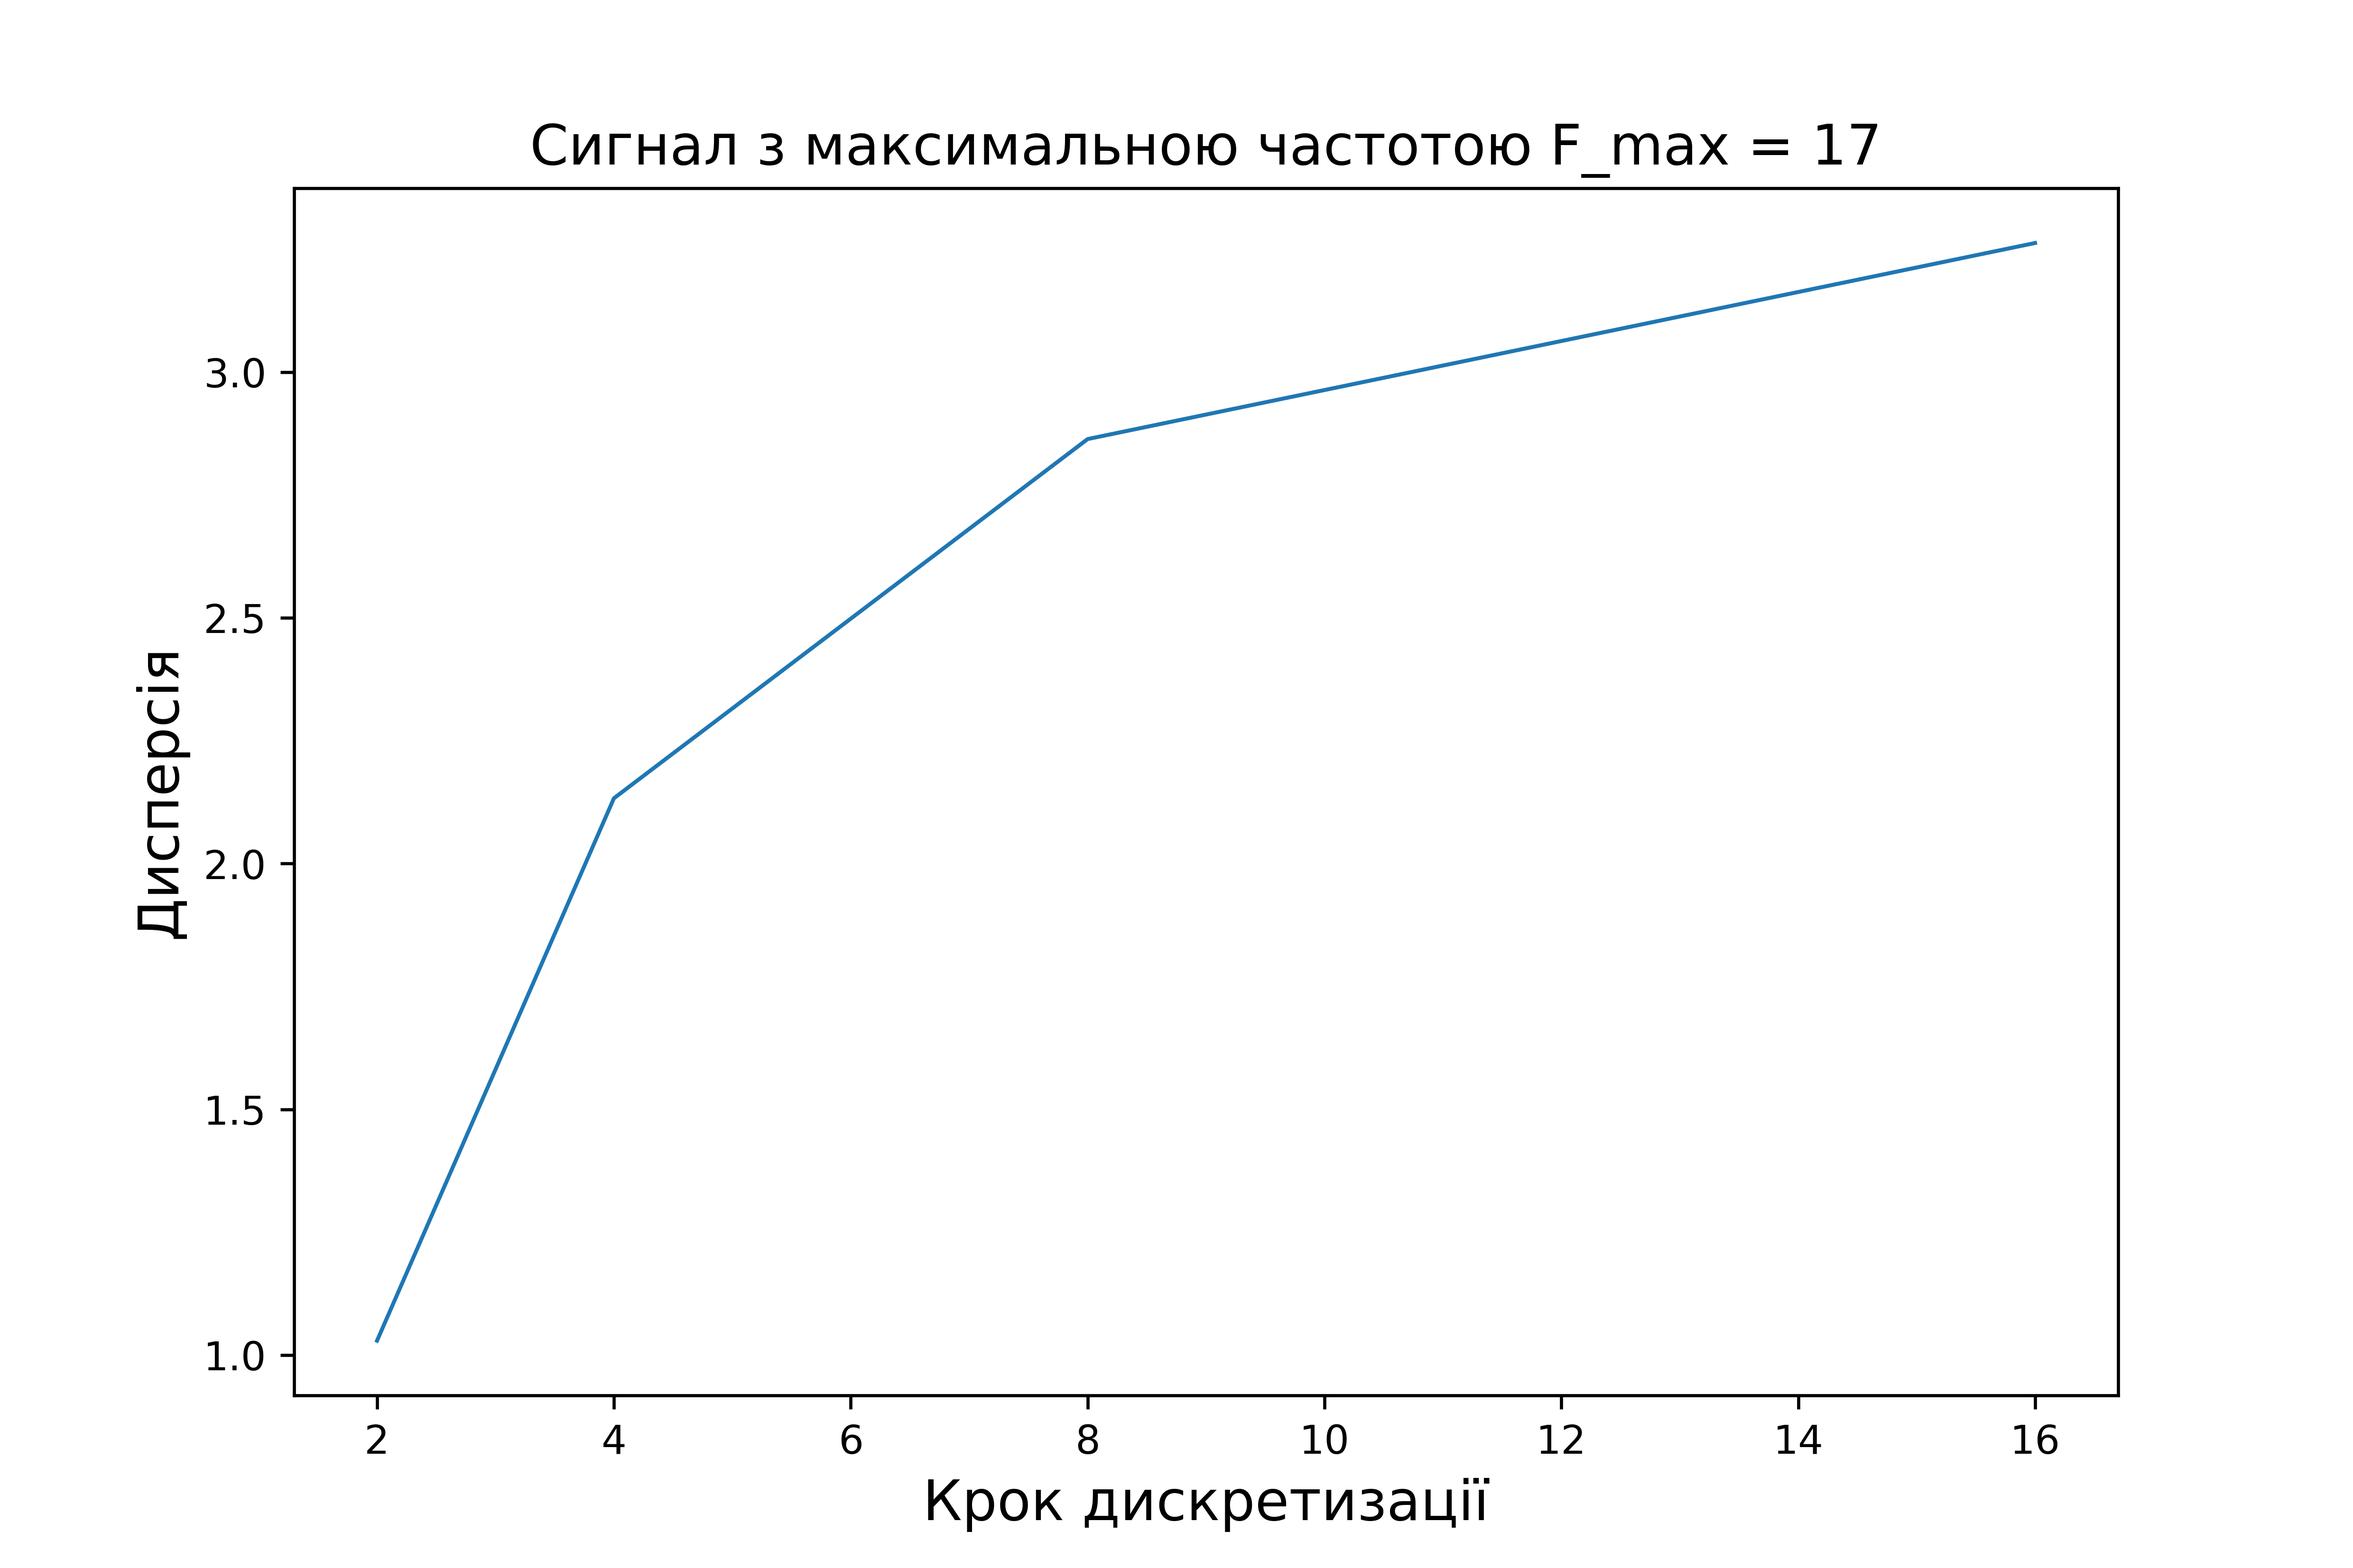
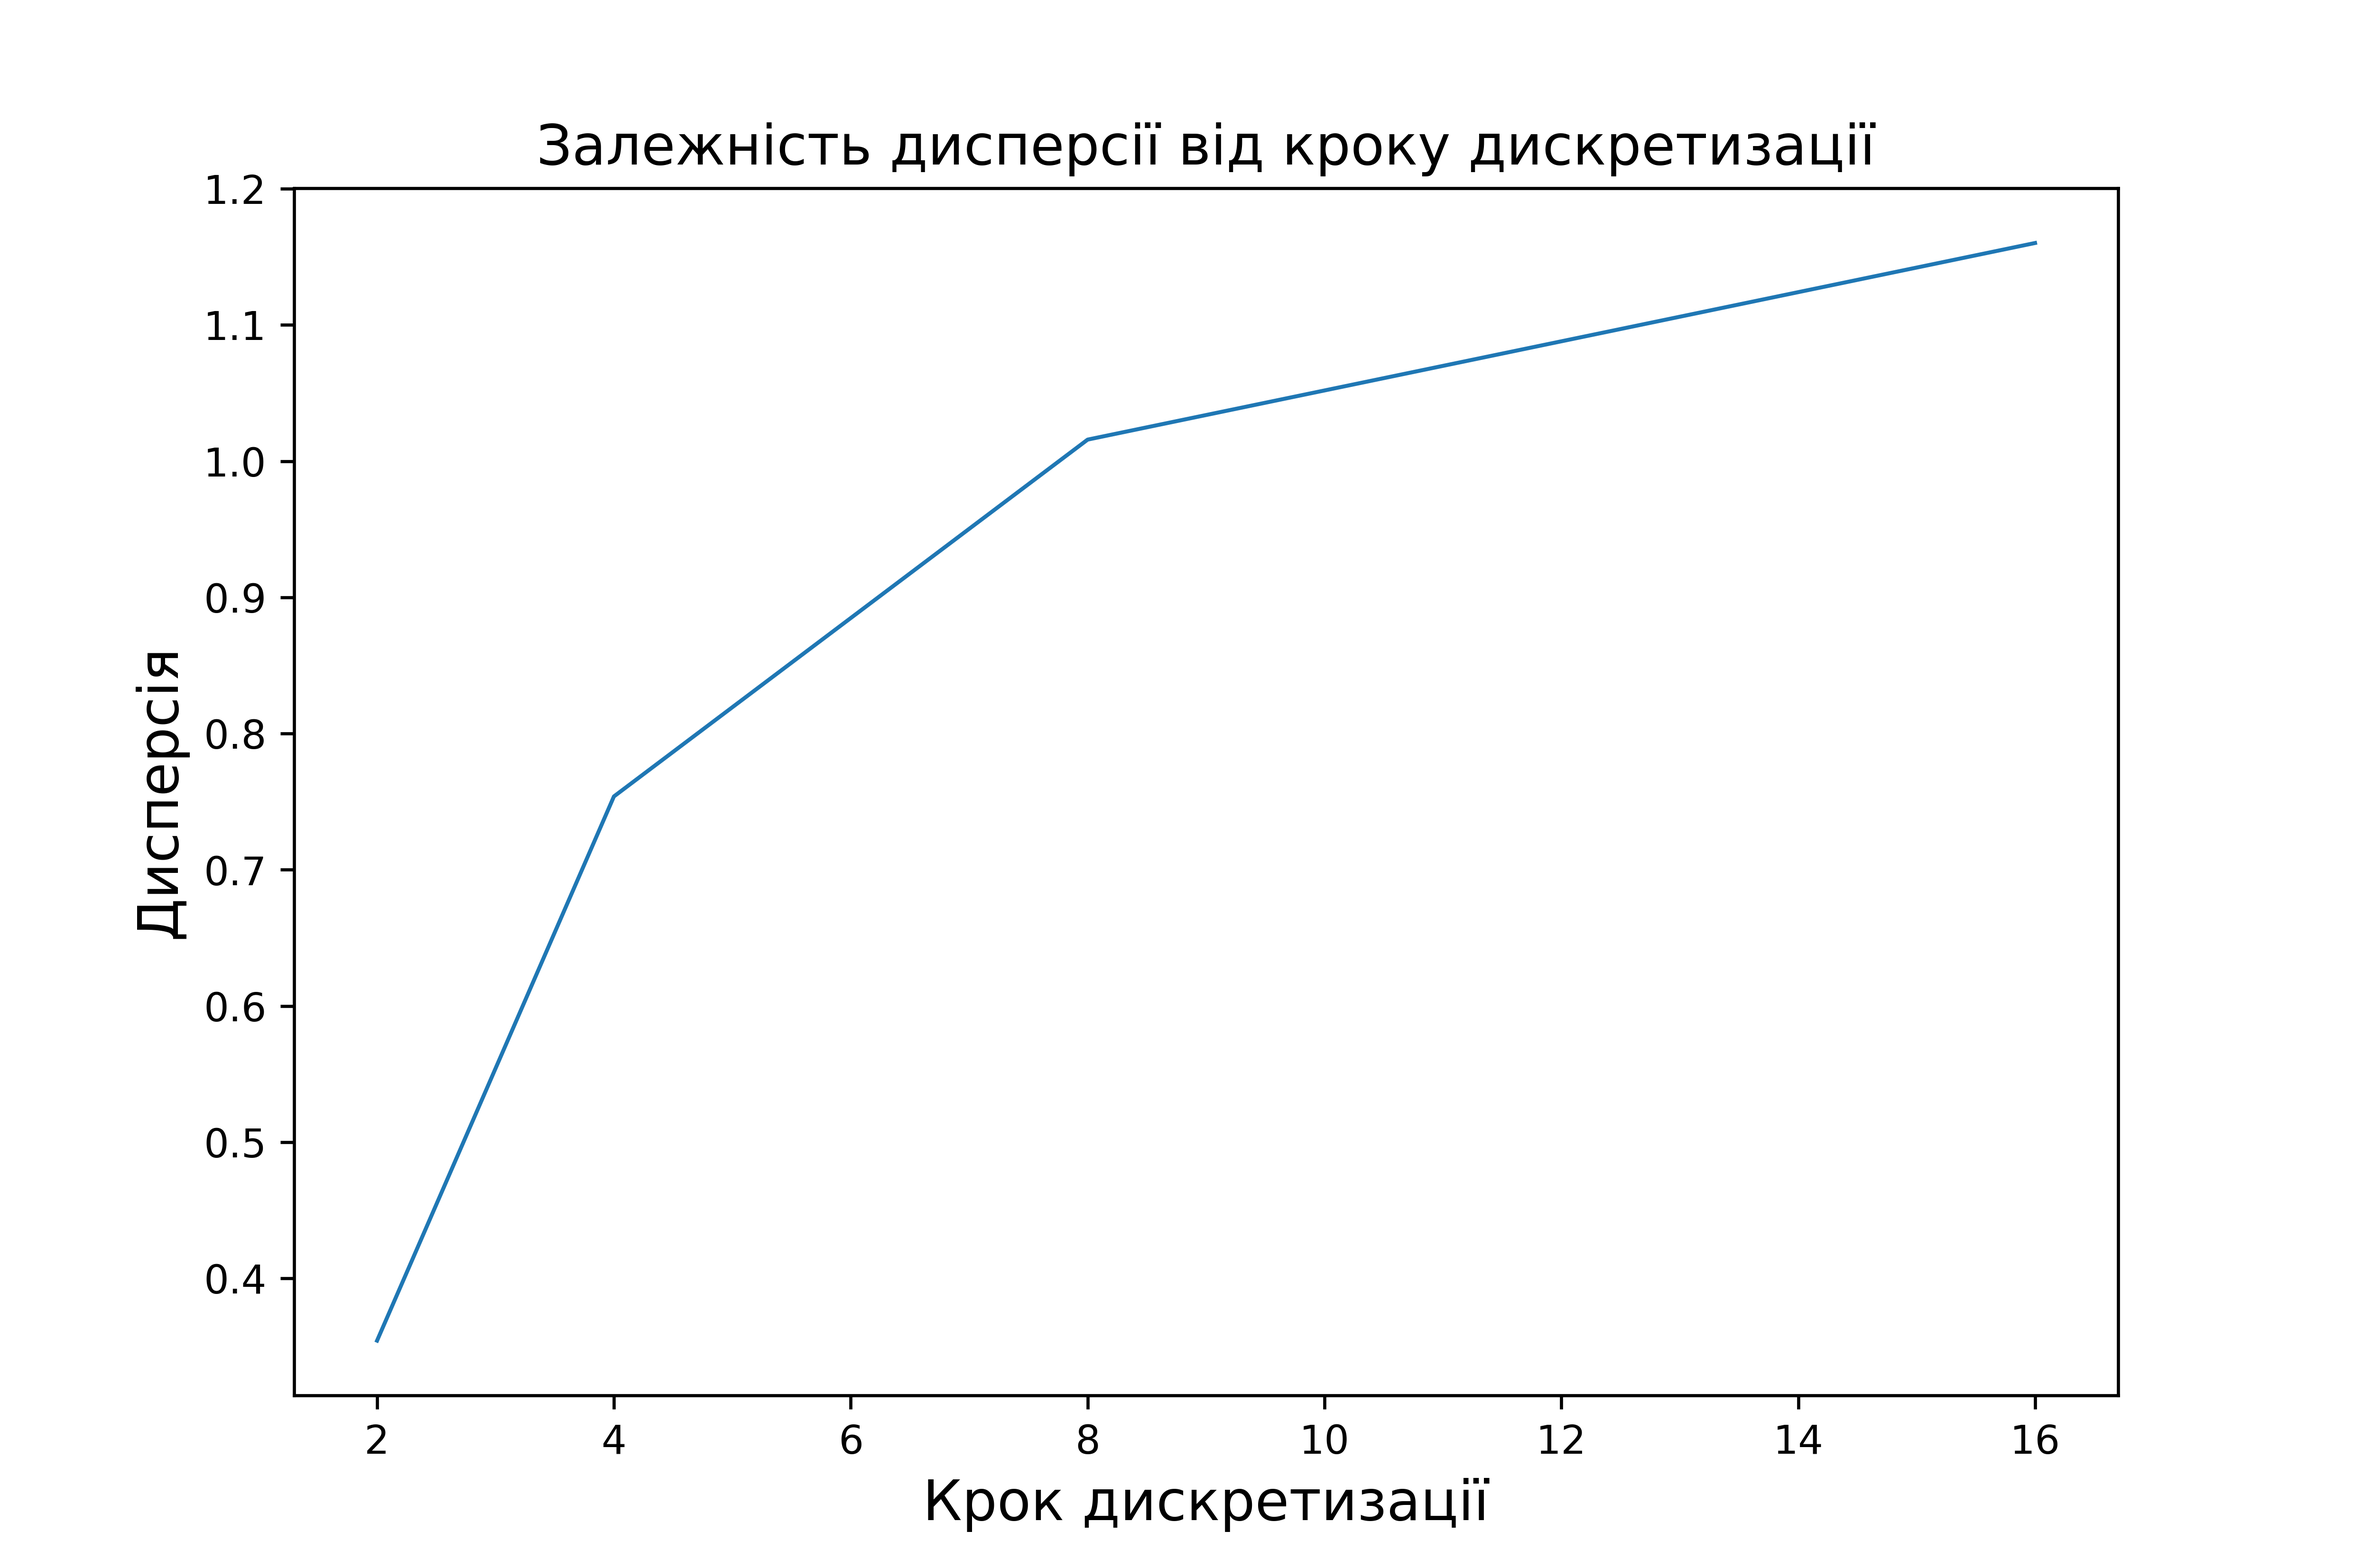
Signal processing, 3

diff --git a/SignalProcessing/SignalProcessing.py b/SignalProcessing/SignalProcessing.py
@@ -105,7 +105,7 @@ fig, ax = plt.subplots(figsize=(21 / 2.54, 14 / 2.54))
 ax.plot(X, dispersion_dif, linewidth=1)
 ax.set_xlabel("Крок дискретизації", fontsize=14)
 ax.set_ylabel("Дисперсія", fontsize=14)
-plt.title("Сигнал з максимальною частотою F_max = 17", fontsize=14)
+plt.title("Залежність дисперсії від кроку дискретизації", fontsize=14)
 fig.savefig("./figures/" + "Залежність дисперсії від кроку дискретизації" + ".png", dpi=600)
 
 # Display of the signal-to-noise ratio from the variance
@@ -113,5 +113,81 @@ fig, ax = plt.subplots(figsize=(21 / 2.54, 14 / 2.54))
 ax.plot(X, signal_noise, linewidth=1)
 ax.set_xlabel("Крок дискретизації", fontsize=14)
 ax.set_ylabel("ССШ", fontsize=14)
-plt.title("Сигнал з максимальною частотою F_max = 17", fontsize=14)
+plt.title("Залежність співвідношення сигнал-шум від кроку дискретизації", fontsize=14)
 fig.savefig("./figures/" + "Залежність співвідношення сигнал-шум від кроку дискретизації" + ".png", dpi=600)
+
+
+# practice 4
+dispersion_dif.clear()
+signal_noise.clear()
+quantize_signals = []
+for M in [4, 16, 64, 256]:
+    bits = []
+    delta = (numpy.max(y) - numpy.min(y)) / (M - 1)
+    quantize_signal = delta * numpy.round(y / delta)
+    quantize_signals += [quantize_signal]
+    quantize_levels = numpy.arange(numpy.min(quantize_signal), numpy.max(quantize_signal) + 1, delta)
+    quantize_bit = numpy.arange(0, M)
+    quantize_bit = [format(bits, '0' + str(int(numpy.log(M) / numpy.log(2))) + 'b') for bits in quantize_bit]
+    quantize_table = numpy.c_[quantize_levels[:M], quantize_bit[:M]]
+    # table display
+    fig, ax = plt.subplots(figsize=(14 / 2.54, M / 2.54))
+    table = ax.table(cellText=quantize_table, colLabels=['Значення сигналу', 'Кодова послідовність'], loc='center')
+    table.set_fontsize(14)
+    table.scale(1, 2)
+    ax.axis('off')
+    fig.savefig("./figures/" + "Таблиця квантування для " + str(M) + " рівнів" + ".png", dpi=600)
+
+    for signal_value in quantize_signal:
+        for index, value in enumerate(quantize_levels[:M]):
+            if numpy.round(numpy.abs(signal_value - value), 0) == 0:
+                bits.append(quantize_bit[index])
+                break
+    bits = [int(item) for item in list(''.join(bits))]
+
+    # Display graphics of bit sequences
+    fig, ax = plt.subplots(figsize=(21 / 2.54, 14 / 2.54))
+    ax.step(numpy.arange(0, len(bits)), bits, linewidth=0.1)
+    ax.set_xlabel("Біти", fontsize=14)
+    ax.set_ylabel("Амплітуда сигналу", fontsize=14)
+    plt.title("Кодова послідовність сигналу при кількості рівнів квантування " + str(M), fontsize=14)
+    fig.savefig("./figures/" + "Кодова послідовність сигналу при кількості рівнів квантування " + str(M) + ".png"
+                , dpi=600)
+
+    # Variance calculation and signal-to-noise ratio
+    E1 = quantize_signal - y
+    dispersion_1 = numpy.var(y)
+    dispersion_2 = numpy.var(E1)
+    dispersion_dif += [dispersion_2]
+    signal_noise += [dispersion_1 / numpy.var(E1)]
+
+# Display graphics of quantize signals
+fig, ax = plt.subplots(2, 2, figsize=(21 / 2.54, 14 / 2.54))
+s = 0
+for i in range(0, 2):
+    for j in range(0, 2):
+        ax[i][j].plot(time, quantize_signals[s], linewidth=1)
+        s += 1
+
+fig.supxlabel("Час (секунди)", fontsize=14)
+fig.supylabel("Амплітуда сигналу", fontsize=14)
+fig.suptitle("Цифрові сигнали з рівнями квантування (4, 16, 64, 256)", fontsize=14)
+fig.savefig("./figures/" + "Цифрові сигнали з рівнями квантування (4, 16, 64, 256)" + ".png", dpi=600)
+
+# Display dependence of dispersion on the number of quantization levels
+M = [4, 16, 64, 256]
+fig, ax = plt.subplots(figsize=(21 / 2.54, 14 / 2.54))
+ax.plot(M, dispersion_dif, linewidth=1)
+ax.set_xlabel("Кількість рівнів квантування", fontsize=14)
+ax.set_ylabel("Дисперсія", fontsize=14)
+plt.title("Залежність дисперсії від кількості рівнів квантування", fontsize=14)
+fig.savefig("./figures/" + "Залежність дисперсії від кількості рівнів квантування" + ".png", dpi=600)
+
+# Display dependence of the signal-to-noise ratio on the number of quantization levels
+fig, ax = plt.subplots(figsize=(21 / 2.54, 14 / 2.54))
+ax.plot(M, signal_noise, linewidth=1)
+ax.set_xlabel("Кількість рівнів квантування", fontsize=14)
+ax.set_ylabel("ССШ", fontsize=14)
+plt.title("Залежність співвідношення сигнал-шум від кількості рівнів квантування", fontsize=14)
+fig.savefig("./figures/" + "Залежність співвідношення сигнал-шум від кількості рівнів квантування" + ".png"
+            , dpi=600)
